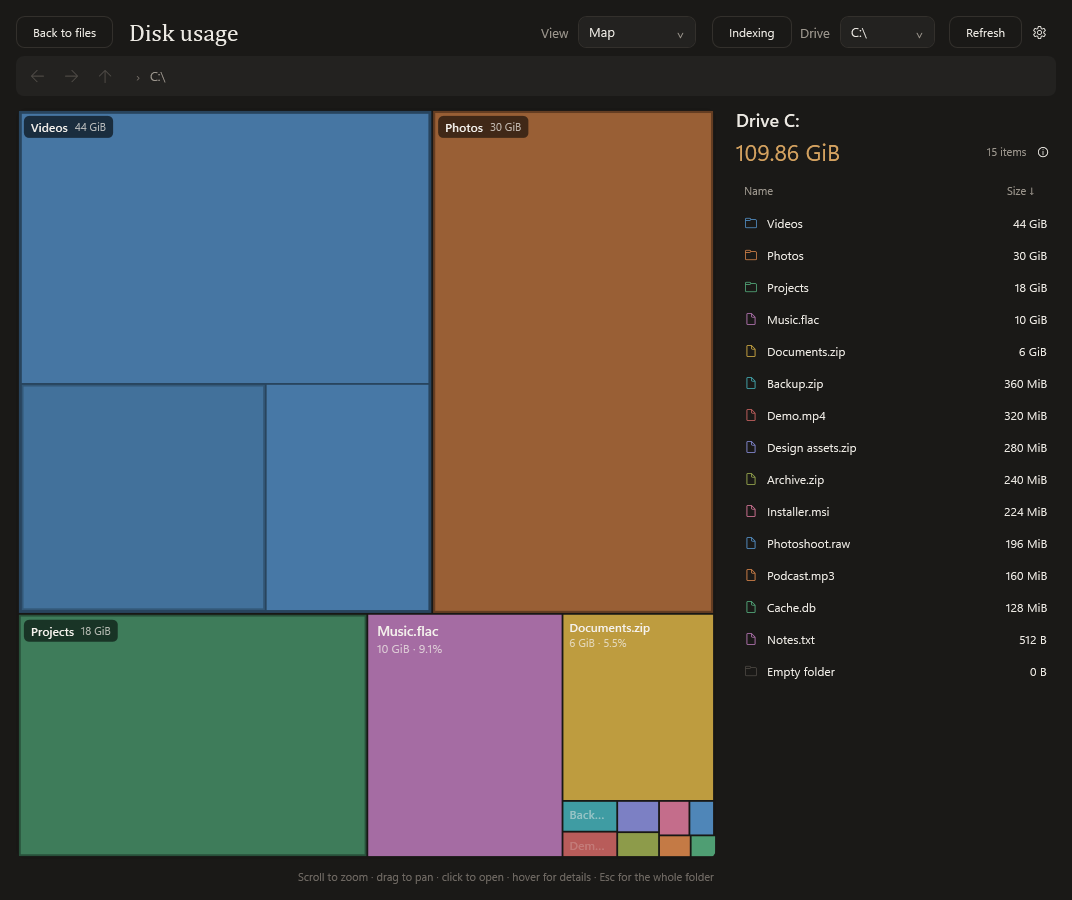
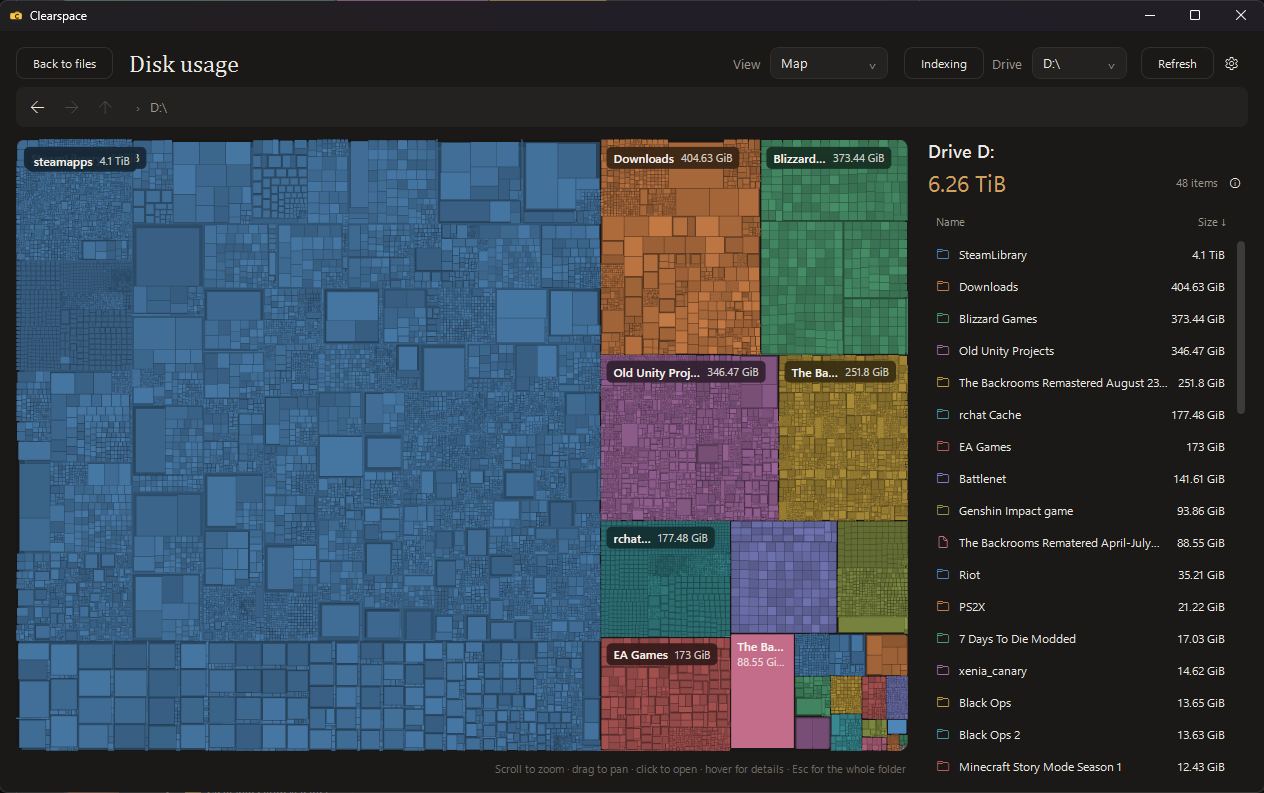
updated read me

diff --git a/README.md b/README.md
@@ -66,9 +66,13 @@ contents. The first lock creates a master password (any length); later locks use
 that password. Keep the password safe: it cannot be recovered. Existing copies and
 backups are not encrypted by this operation.
 
-<!-- PICTURE SLOT (uncomment once the file exists):
-![The Lock with password dialog](docs/images/lock-dialog.png)
--->
+<!-- NEW: pictures of the lock and unlock dialogs. -->
+<p>
+  <img src="docs/images/lock-dialog.png" width="400" align="top" alt="The Lock file dialog, creating the password for the first lock">
+  <img src="docs/images/unlock-dialog.png" width="400" align="top" alt="The Unlock file dialog, asking for the password">
+</p>
+
+*Left: the first lock creates your password. Right: unlocking a locked file.*
 
 - **Files.** A locked file is renamed `<name>.cslock` and shows a lock badge.
   Opening it, or choosing **Unlock…**, asks for the password and restores it. It
@@ -78,12 +82,9 @@ backups are not encrypted by this operation.
   names stay visible. Opening a locked folder asks for the password. While you're
   inside, its files are unlocked and work normally, and Clearspace locks them
   again when you leave (or on the next start after a crash).
-- **In Windows Explorer.** Locked files and folders get lock icons there too.
-  Explorer's right-click menu gets **Lock with Clearspace** on files, **Unlock**,
-  **Remove lock** and **Change password with Clearspace** on locked files, and a
-  **Clearspace** submenu on folders (under "Show more options" on Windows 11).
-  These, and double-clicking a locked file, show only the password dialog; only
-  **Open in Clearspace** opens the main window.
+- **In Windows Explorer.** The same actions are in Explorer's right-click menu,
+  and locked items get lock icons there too. See
+  [Using locks from Windows Explorer](#using-locks-from-windows-explorer) below.
 - **Removing locks.** **Remove lock…** decrypts for good and works on several
   selected files and folders at once. Removing the lock from something inside a
   locked folder also stops that folder asking for a password (its other files
@@ -94,19 +95,62 @@ backups are not encrypted by this operation.
   with the password they were locked with. If that is an older password, the
   prompt says so and offers to switch the file to your current one;
   **Change password…** does the same for a selection.
-- **Limits.** Files that can't be locked (over 64 MB, links, cloud placeholders,
-  files with additional data streams such as downloads, files in use) are
-  skipped and listed. Drive roots, your user folder, and Windows/program folders
-  are refused.
+- **Limits.** Locking works on local NTFS drives. Files that can't be locked
+  (over 64 MB, links, cloud placeholders, files with additional data streams
+  such as downloads, files in use) are skipped and listed. Drive roots, your
+  user folder, and Windows/program folders are refused.
 
-<!-- PICTURE SLOTS (uncomment once the files exist):
+<!-- PICTURE SLOT (uncomment once the file exists):
 ![Lock badges on a locked file and folder in Clearspace](docs/images/lock-badges.png)
-![Clearspace entries in Windows Explorer's right-click menu](docs/images/explorer-menu.png)
 -->
 
 Lock metadata and the password verifier are stored in SQLite; each encrypted
 file also contains protected recovery metadata. See [file-locking notes](docs/CS499-File-Locking.md)
 for the format, tests, and recovery limitations.
+
+<!-- NEW: how locking works in File Explorer, without opening Clearspace. -->
+#### Using locks from Windows Explorer
+
+You don't need the Clearspace window open to use locks. Setup, and every start
+of Clearspace, adds Clearspace's entries to Explorer's right-click menu (under
+**Show more options** on Windows 11). Explorer also shows locked items with
+their own icons: a locked file appears as `<name>.cslock` with a lock icon and
+the type "Clearspace locked file", and a locked folder gets a lock folder icon.
+
+<!-- PICTURE SLOT (uncomment once the file exists):
+![Clearspace entries in Windows Explorer's right-click menu](docs/images/explorer-menu.png)
+-->
+
+| In Explorer | What happens |
+| --- | --- |
+| Right-click a file, **Lock with Clearspace** | The password dialog opens on its own. The file is encrypted in place and renamed `<name>.cslock`. |
+| Double-click a `.cslock` file | Asks for the password, unlocks the file, and opens it in its usual program. |
+| Right-click a `.cslock` file, **Unlock with Clearspace** | Unlocks it for now, without opening it. |
+| Right-click a `.cslock` file, **Remove lock with Clearspace** | Decrypts it for good. |
+| Right-click a `.cslock` file, **Change password with Clearspace** | Switches a file locked with an older password to your current one. |
+| Right-click a folder, **Clearspace**, then **Lock folder**, **Unlock folder**, **Remove lock** or **Change password** | The same actions for every file inside the folder and its subfolders. |
+| Right-click a folder, **Clearspace**, **Open in Clearspace** | Opens the folder in the main Clearspace window. This is the only entry that does; all the others show just the password dialog. |
+
+Unlocking is for a visit, not for good. An unlocked file goes back to its normal
+name and works in any program. Meanwhile Clearspace keeps running in the
+background with no window and watches which folders your Explorer windows and
+tabs are showing:
+
+- A few seconds after no Explorer or Clearspace window is showing that folder,
+  the file is encrypted again. Clearspace exits once nothing is left unlocked.
+- If you unlock a folder from its right-click menu and don't open it within a
+  minute, it locks again.
+- A file another program still has open is retried every 30 seconds.
+- Anything left unlocked by a crash or a shutdown is locked again the next time
+  Clearspace starts.
+
+A file inside a locked folder is unlocked by unlocking the folder: one password
+prompt covers everything in it.
+
+One difference from Clearspace itself: Explorer can still open a locked folder
+and list what is in it without a password. What it lists are the encrypted
+`.cslock` files, so nothing in them can be read until you unlock. Only
+Clearspace's own window stops at the folder and asks for the password first.
 
 ### Photo viewer and editing
 
@@ -226,7 +270,7 @@ the latest available index rather than starting a new scan.
 <!-- NEW: pictures. -->
 ![The disk usage map of a whole drive beside its size list](docs/images/disk-usage-map.png)
 
-*The disk usage map, drawn here with sample data.*
+*A 6 TiB drive with **Render everything** on: every block at every depth is drawn at once.*
 
 The analyzer opens inside Clearspace; **Back to files** restores the browser.
 The whole drive is one nested treemap that fills the space beside the list, and
@@ -240,11 +284,7 @@ Escape (or **Whole folder**) returns to the full current folder after zooming in
 
 ![Inside a folder: its contents fill the map while the rest of the drive stays dimmed around it](docs/images/disk-usage-folder.png)
 
-*Inside a folder: the rest of the drive stays in place, dimmed, around it.*
-
-<!-- PICTURE SLOT (uncomment once the file exists):
-![Zoomed out: drives drawn as hardware, cabled to the motherboard](docs/images/disk-usage-hardware.png)
--->
+*Inside a folder (sample data): the rest of the drive stays in place, dimmed, around it.*
 
 Keep zooming out past the whole drive's files and the rest of the drive comes into
 view at the same scale: its free space, and used space the index does not account
@@ -272,6 +312,10 @@ processor, a memory block holding its slots (a module in each one that is really
 filled, labelled with its size), and the graphics card, all named from the machine
 itself. Network drives sit on their servers beside it, cabled to the board. Hover a
 part for its details.
+
+![Zoomed all the way out: each drive drawn as the device it is, cabled to the motherboard, with a network share on its own server](docs/images/disk-usage-hardware.png)
+
+*Zoomed all the way out: the drives, the motherboard with its processor, memory and graphics card, and a network share on its server.*
 
 Zoom into the memory and its sticks fade away to show what it holds, laid out like a
 drive: every running program sized by the memory it takes (all its processes
